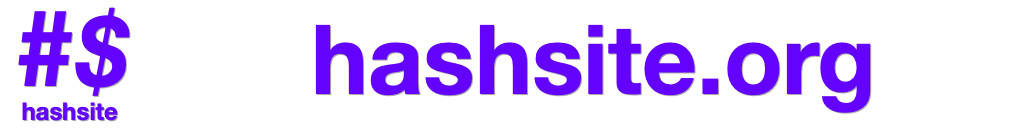
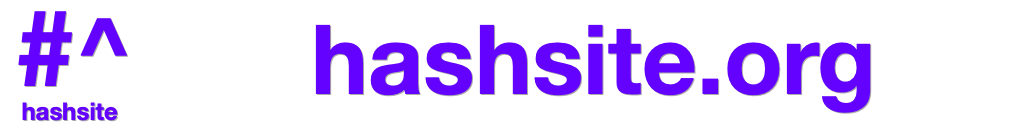
Fix hashsite nomenclature and add more graphics

Changed region(s): [[0.0625, 0.0625, 0.125, 0.75]]

diff --git a/README.md b/README.md
@@ -18,7 +18,7 @@ Fill in the numbers and letters (capital letters only):
 
 And this is mostly it.
 
-Every hashsite location has a prefix of “#$”.  The prefix is optional, but lends itself well toward identifying what is intended.
+Every hashsite location has a prefix of “#”, and ends with "^".  The "#" and "^" are optional, but lend themselves well toward identifying what is intended.
 
 Consider the Mercator projection (including the parts Mercator left off):
 
@@ -32,26 +32,46 @@ This works, but it overrepresents the area at the poles and underrepresents the 
 
 ![](mercator4.png)
 
-The lines are at 0°, 19.47°, and 41.81°.
+The latitude lines are at 0°, 19.47°, and 41.81°, splitting the Earth into six equally-sized slices.
 Now no matter the first character, we’re talking about the same amount of area.
 
-So let’s take #$F and split it into a 6x6 grid:
+So let’s take #B^:
+
+![](gridb.png)
+
+And split it into a 6x6 grid:
+
+![](gridb2.png)
 
 These aren’t very square, so for tropical and mid latitudes, we use a 9x4 grid, 9/9/9/9:
 
+![](gridb3.png)
+
+accordingly with #BA^:
+
+![](gridc.png)
+
 For the third digit on, we go back to the 6x6 grid:
 
-accordingly with #$F6:
+![](gridc2.png)
 
-And #$F6N:
+And #BA3^:
 
-And #$F6NZ:
+![](gridd.png)
 
-There. Compare #$F6NZ with these other encoding systems:
+![](gridd2.png)
+
+And #BA3U^:
+
+![](gride.png)
+
+There. Compare #BA3U^ with these other encoding systems:
+
+GeoHash:
 
 There’s one more thing to remember with Hashsite: the polar regions.
 
-If we split a polar region (say, #$2) into a 9x4 or even a 6x6 grid, we’d find ourselves with ridiculously accurate longitudes and ridiculously inaccurate latitudes:
+If we split a polar region (say, #2^) into a 9x4 or even a 6x6 grid, we’d find ourselves with ridiculously accurate longitudes and ridiculously inaccurate latitudes:
 
 So for polar regions only, we split it differently; instead of 9/9/9/9, we use 1/1/2/3/3/4/5/5/6/6:
 
@@ -71,30 +91,30 @@ All Hashsite letters are CAPITAL. It’s not yelling, it’s practical.
 
 This means no problems with lowercase L: getting a 1 and a capital L confused is not likely. Getting a capital O and a numeric 0 with a slash should be also unlikely. Nonetheless, we can add dots into a hashsite to help avoid the difference. Dots can and should go before any number (0 and 1 in particular) but never before any letter. They are not required, but they help people understand the difference between:
 
-#$L.1L.0OL (20 miles NE of Moscow):
+#L.1L.0OL^ (20 miles NE of Moscow):
 
-and #$LLLO.0.1 (30 miles NW of Abu Dhabi):
+and #LLLO.0.1^ (30 miles NW of Abu Dhabi):
 
 So if you’re going to tweet where the party at the old quarry is going to be, you can leave the dots in there and ignore them when punching them into your Hashsite-enabled map app.
 
 *Vertical space
 
-To add a message regarding vertical space, we add a carat to the end:
+To add a message regarding vertical space, we add after the carat to the end:
 
-#$F.6NZ^
+#F.6NZ^
 
 Then we use the same 6x6 grid in the following manner:
 
-So #$F.6NZ^I would mean 1 meter below street level, and #$F.6NZ^H would mean 1 meter above street level. This covers -18m to 18m inclusively (#$F.6NZ^, the carat followed by no character, handles the 0m case). This covers most everyday wayfinding situations involving up to 6-story buildings.
+So #F.6NZ^I would mean 1 meter below street level, and #F.6NZ^H would mean 1 meter above street level. This covers -18m to 18m inclusively (#F.6NZ^, the carat followed by no character, handles the 0m case). This covers most everyday wayfinding situations involving up to 6-story buildings.
 
 As soon as you precede the initial post-carat character with a second character, it acts as a sort of conventional “tens digit”, multiplying each value by 18:
 
-#$F.6NZ^.1H would thus be 19 (1 x 18 + 1) meters above street level.  How would we do 18 meters above street level? #$F.6NZ^00, the first zero being a special case indicating we’re at exactly 18. #$F.6NZ^0Z would equal exactly 18 meters beneath street level.
+#F.6NZ^.1H would thus be 19 (1 x 18 + 1) meters above street level.  How would we do 18 meters above street level? #F.6NZ^00, the first zero being a special case indicating we’re at exactly 18. #F.6NZ^0Z would equal exactly 18 meters beneath street level.
 
-Finally, trailing the entire hashsite with a second carat means that the vertical number is relative to sea level, not street level. #$F.6NZ^^ means we’re at sea level, #$F.6NZ^H^ means 1 meter above sea level.
+Finally, trailing the entire hashsite with a second carat means that the vertical number is relative to sea level, not street level. #F.6NZ^^ means we’re at sea level, #F.6NZ^H^ means 1 meter above sea level.
 
 *Word mode
 
 Unlike What3Words’ patented scheme for deriving three words from a location, the hashsite approach isn’t to take spatial coordinates and squish them into a huge single number which we bust apart again. We simply take the 2-character alphadecimal “bytes” (1332 unique values, 1296 for each possible pair and another 36 for single characters) and run them through an open-source alphabetic dictionary, in alphabetical order.
 
-#$DF28 might end up being #$eager-badger.  #$DF28ML might be #$eager-badger-possum. All the words are 2-7 letters long, common, without spaces or punctuation, alphabetical, and we don’t use plurals to confuse people.  Best off, if you get #$eager-badger and #$eager-badge confused, you’re still close enough to have a shot at figuring things out.
+#DF28^ might end up being #eager-badger^.  #DF28ML^ might be #eager-badger-possum^. All the words are 2-7 letters long, common, without spaces or punctuation, alphabetical, and we don’t use plurals to confuse people.  Best off, if you get #eager-badger^ and #eager-badge^ confused, you’re still close enough to have a shot at figuring things out.
